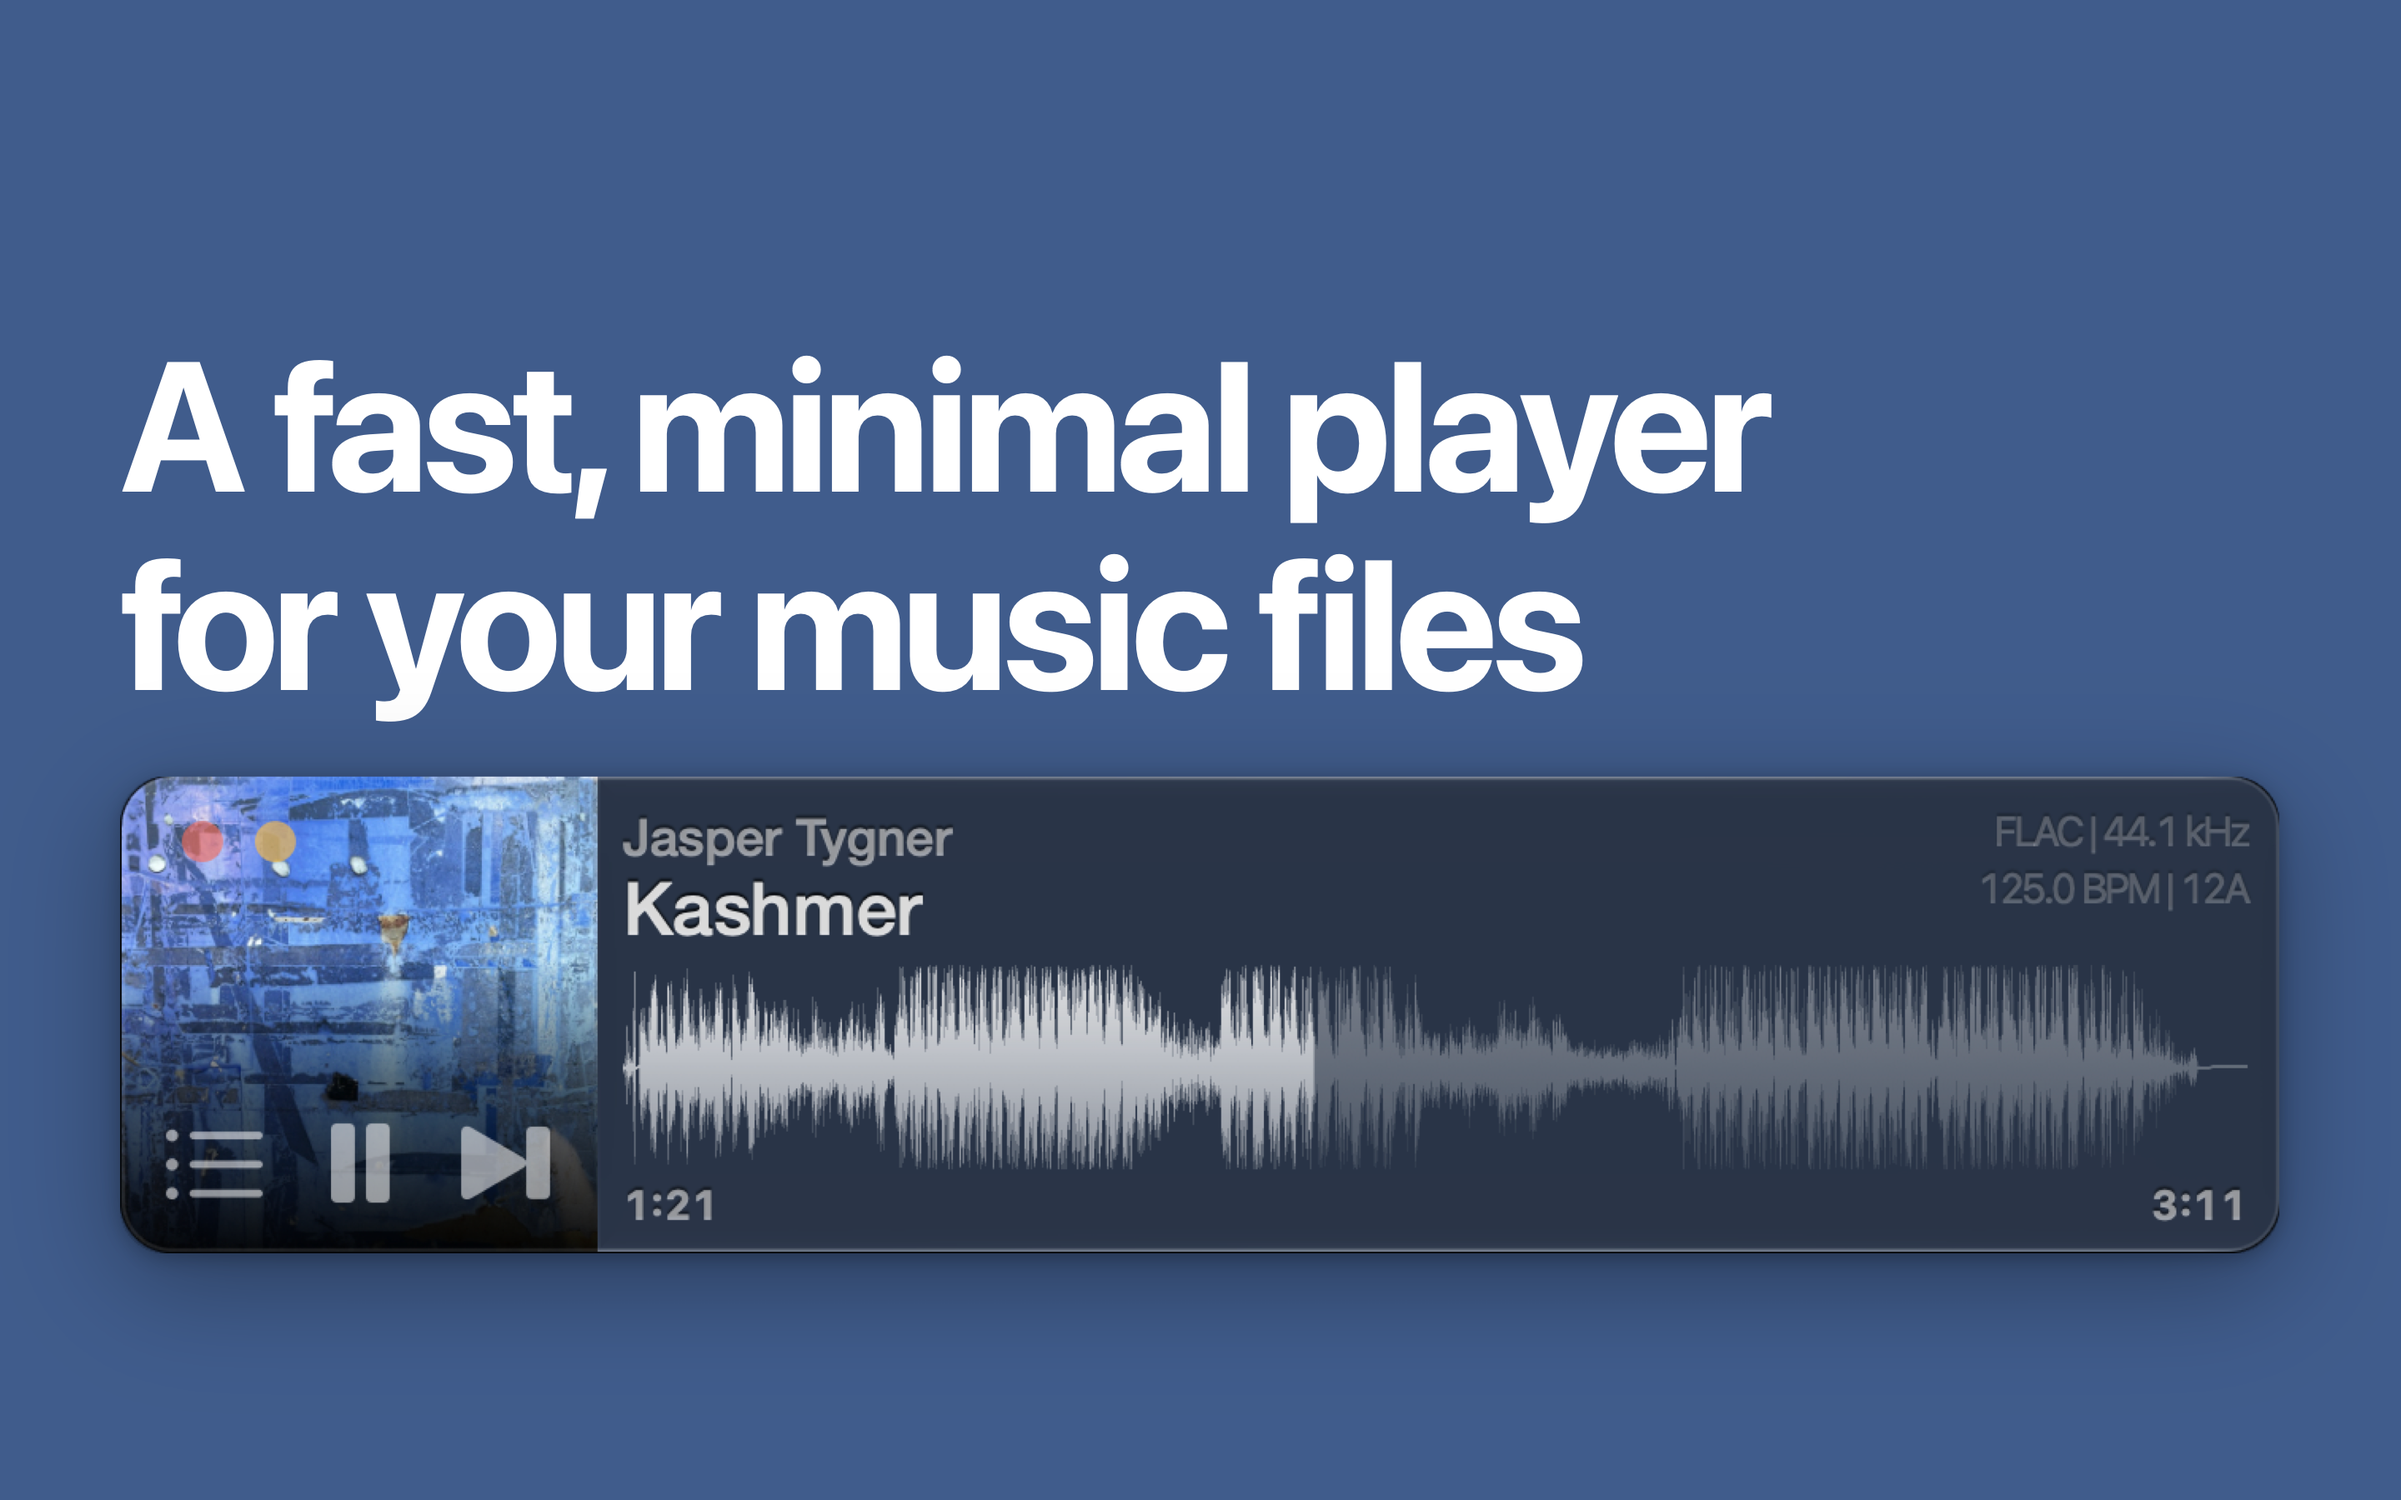
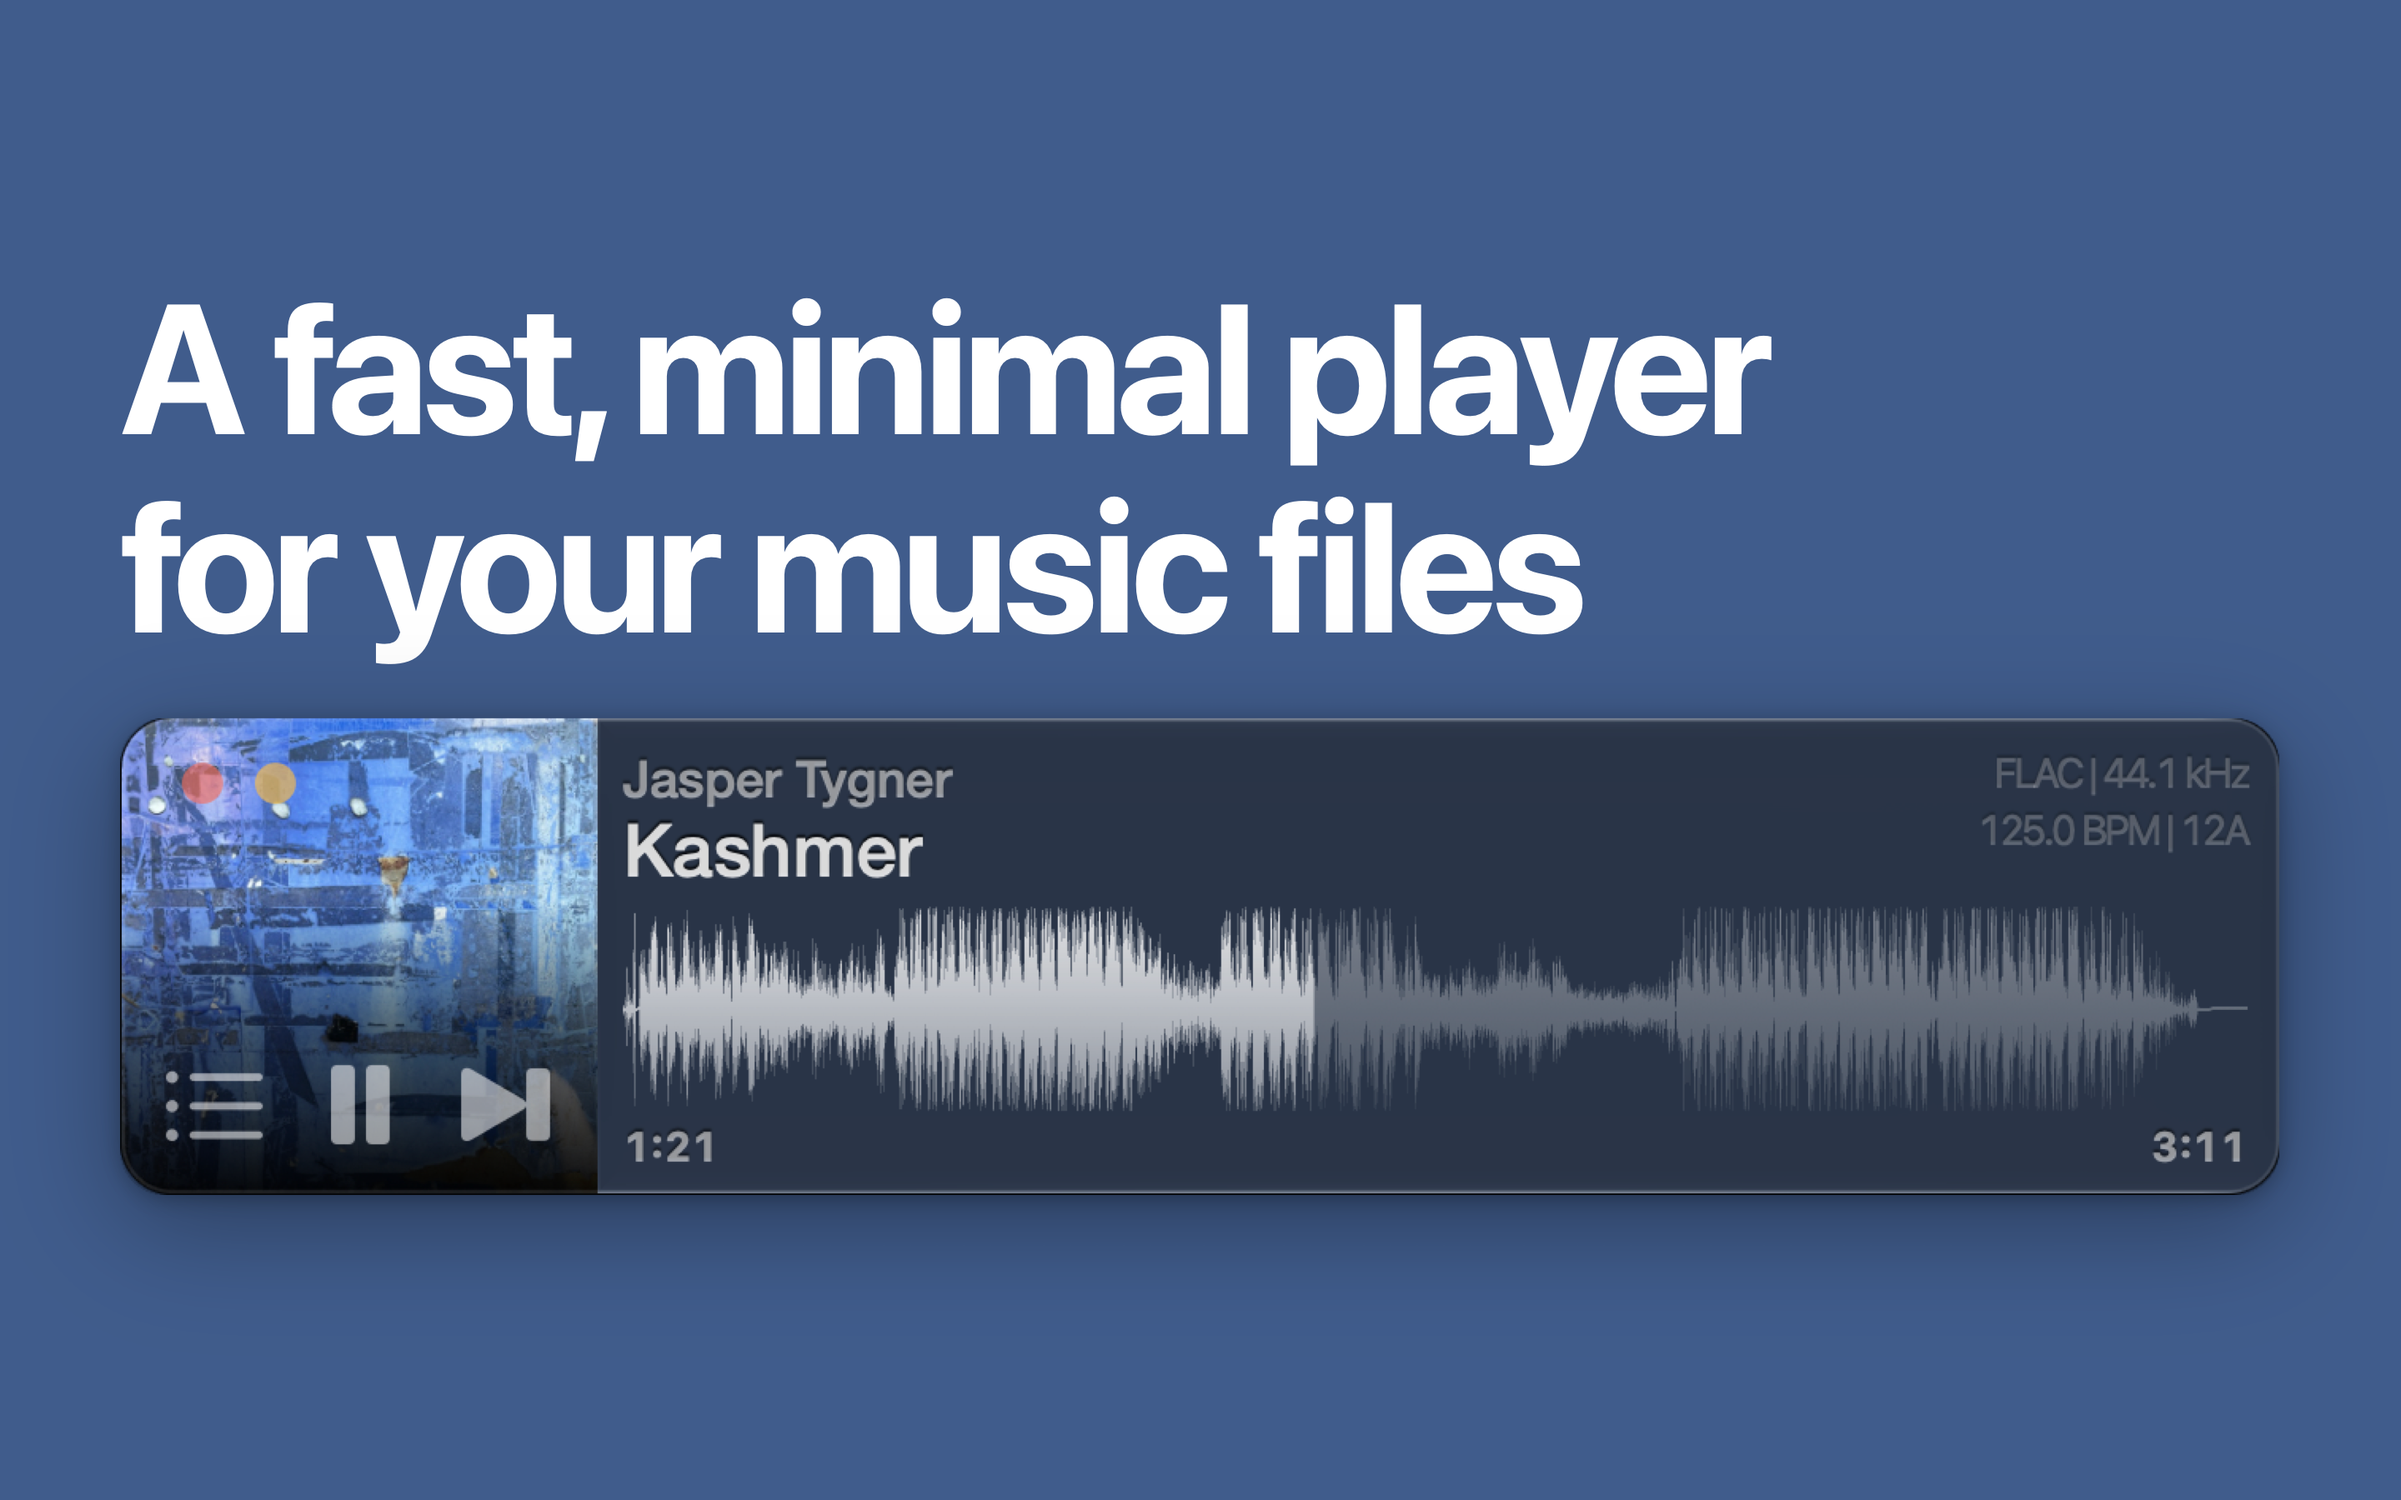
appstore: Centre the short mac frames, and give the tall ones more room on top
The player and pitch frames are centred by what is seen, from the
capitals' tops to the window's bottom. The playlist and themes frames
start their text two margins from the top.

Changed region(s): [[0.0312, 0.1867, 0.9688, 0.8711]]

diff --git a/scripts/appstore/compose-app-store-overlay.swift b/scripts/appstore/compose-app-store-overlay.swift
@@ -45,10 +45,8 @@ let CANVAS_H = 1800
 // it. The README captures are 1450-1650px wide, so this upscales ~1.6-1.8x,
 // which the 2x source takes without visible softening.
 let WINDOW_W_FRAC = 0.90  // --width overrides
-// The text starts this many margins from the top. A short window's stack sits
-// this far down the room it leaves, a little under the middle.
-let LANDSCAPE_TOP_MARGINS = 1.5
-let SHORT_STACK_Y = 0.56  // --block-y overrides
+// Above a tall window, the text starts this many margins from the top.
+let LANDSCAPE_TOP_MARGINS = 2.0
 
 // A portrait canvas holds a full-screen device capture. The screen is pinned
 // this far from the bottom, and the text starts this far from the top. Both
@@ -693,9 +691,12 @@ func compose(
         textTop = frame.left * LANDSCAPE_TOP_MARGINS - overshoot
         windowTop = textTop + blockH + gap
         // A tall window runs off the bottom edge, which is what lets it be
-        // this wide. A short one leaves room, and the stack sits in it.
+        // this wide. A short one leaves room, and the stack is centred in it.
         if short {
-            textTop = (Double(canvasH) - blockH - gap - Double(win.h)) * (blockY ?? SHORT_STACK_Y)
+            // Centred by what is seen: the capitals' tops to the window's
+            // bottom. --block-y places the line box instead.
+            textTop = blockY.map { (Double(canvasH) - blockH - gap - Double(win.h)) * $0 }
+                ?? (Double(canvasH) - blockH - gap - Double(win.h) - overshoot) / 2
             windowTop = textTop + blockH + gap
         }
     }
